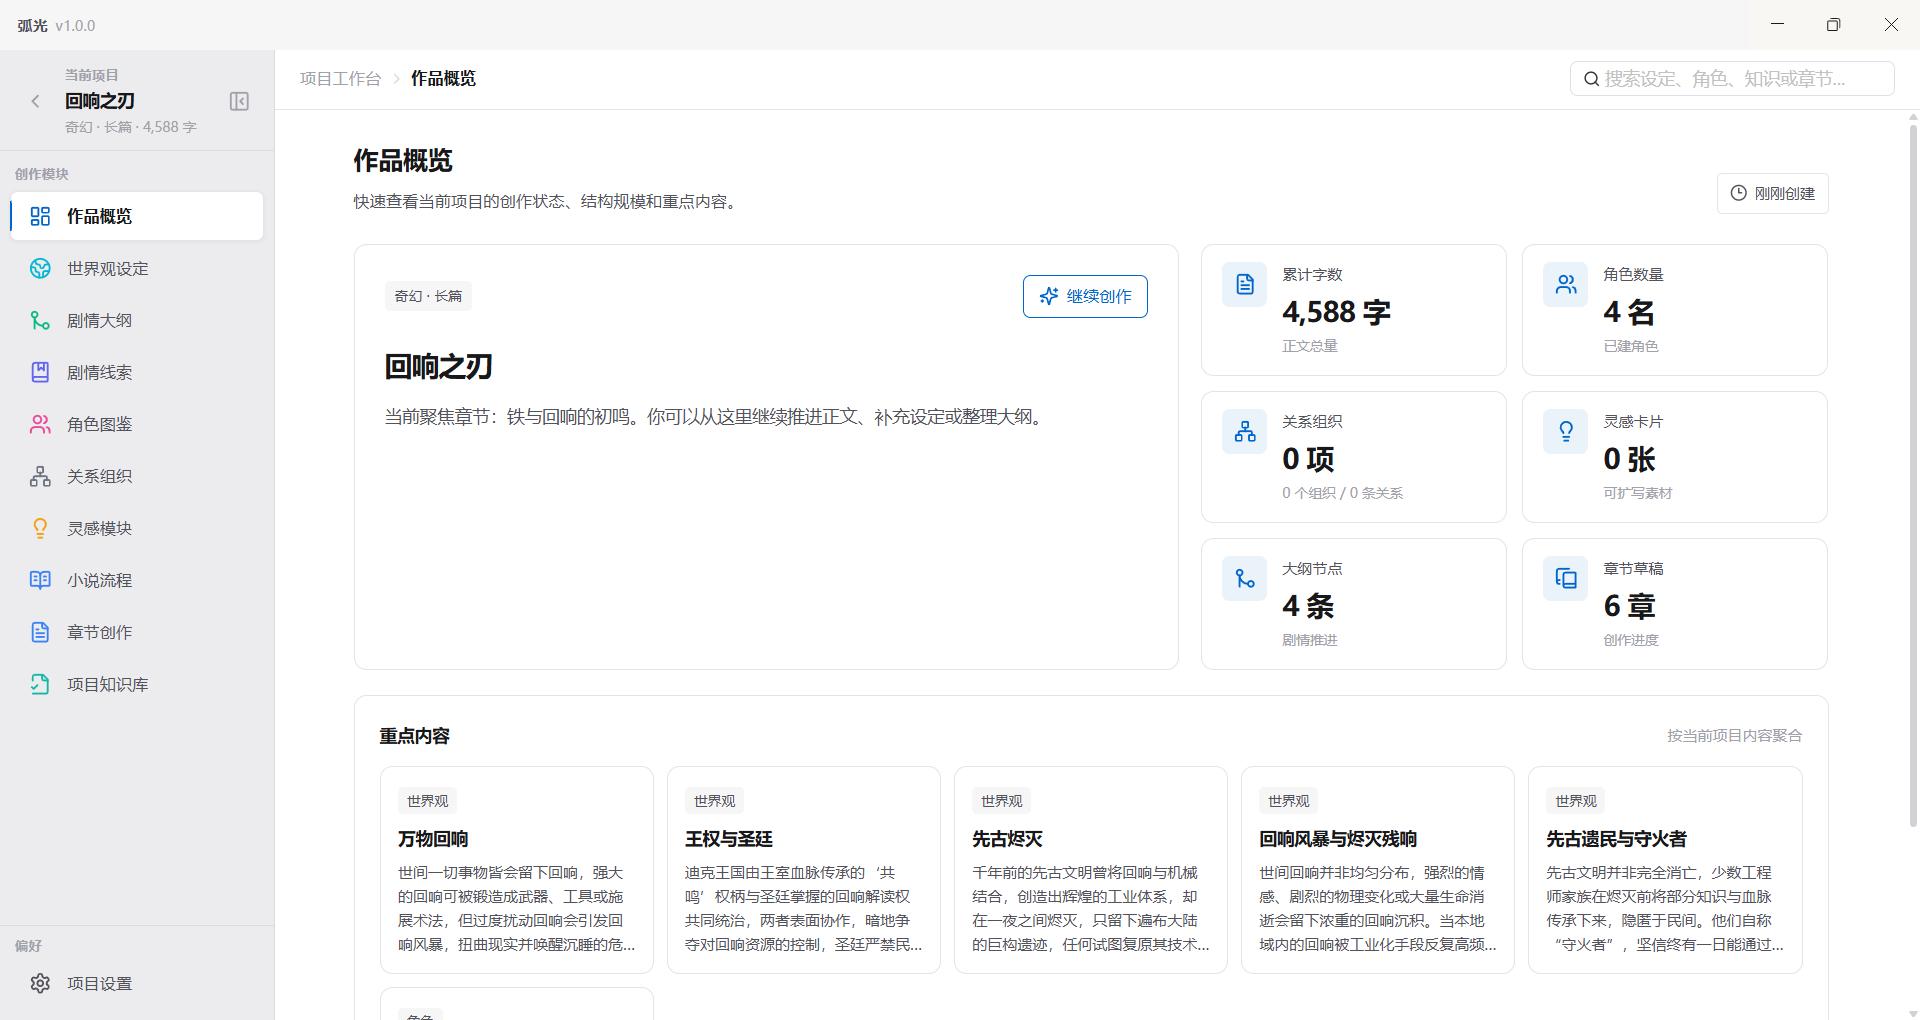
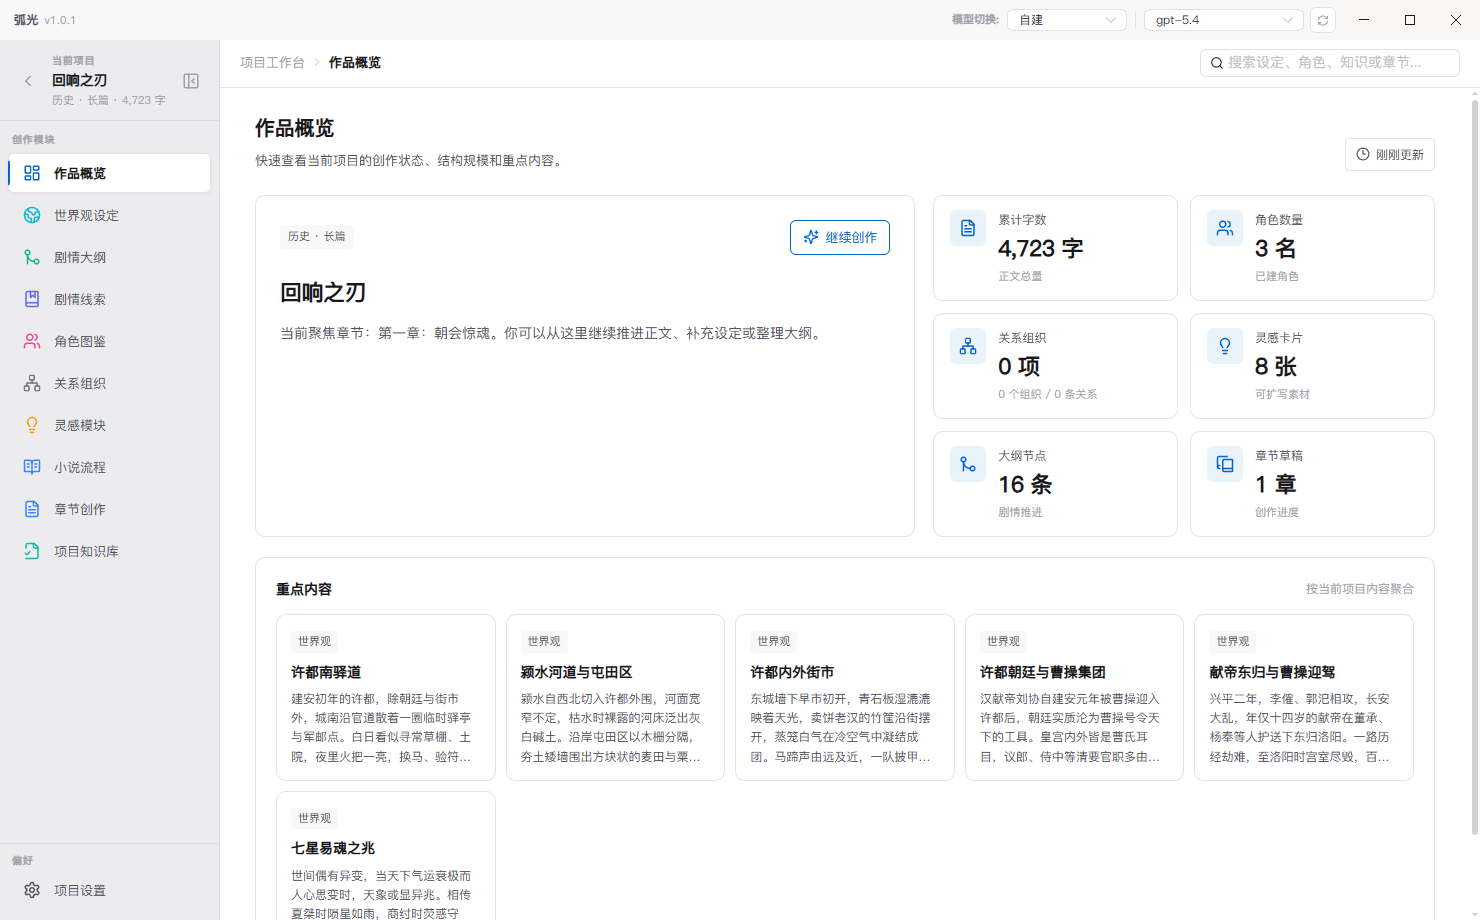
修复设置持久化与配置编辑问题

diff --git a/electron/main/workspace-store.ts b/electron/main/workspace-store.ts
@@ -285,6 +285,8 @@ export async function ensureWorkspaceDb(): Promise<DatabaseSync> {
       model TEXT NOT NULL,
       api_key TEXT NOT NULL,
       base_url TEXT NOT NULL,
+      ai_profiles_json TEXT NOT NULL DEFAULT '[]',
+      active_ai_profile_id TEXT NOT NULL DEFAULT '',
       image_provider TEXT NOT NULL DEFAULT '',
       image_model TEXT NOT NULL DEFAULT '',
       image_api_key TEXT NOT NULL DEFAULT '',
@@ -382,6 +384,14 @@ function ensureAppSettingsColumns(db: DatabaseSync): void {
 
   if (!columnNames.has('image_provider')) {
     db.exec(`ALTER TABLE app_settings ADD COLUMN image_provider TEXT NOT NULL DEFAULT '';`)
+  }
+
+  if (!columnNames.has('ai_profiles_json')) {
+    db.exec(`ALTER TABLE app_settings ADD COLUMN ai_profiles_json TEXT NOT NULL DEFAULT '[]';`)
+  }
+
+  if (!columnNames.has('active_ai_profile_id')) {
+    db.exec(`ALTER TABLE app_settings ADD COLUMN active_ai_profile_id TEXT NOT NULL DEFAULT '';`)
   }
 
   if (!columnNames.has('image_model')) {
@@ -633,7 +643,7 @@ export function readWorkspaceSnapshot(db: DatabaseSync): WorkspacePayload | null
   if (projects.length === 0) {
     const settings = db.prepare(`
       SELECT theme, selected_project_id AS selectedProjectId, provider, api_key AS apiKey, base_url AS baseUrl, auto_save_interval AS autoSaveInterval
-      , model, image_provider AS imageProvider, image_model AS imageModel, image_api_key AS imageApiKey, image_base_url AS imageBaseUrl, ui_scale AS uiScale, dark_mode AS darkMode, dark_mode_style AS darkModeStyle
+      , model, ai_profiles_json AS aiProfilesJson, active_ai_profile_id AS activeAiProfileId, image_provider AS imageProvider, image_model AS imageModel, image_api_key AS imageApiKey, image_base_url AS imageBaseUrl, ui_scale AS uiScale, dark_mode AS darkMode, dark_mode_style AS darkModeStyle
       FROM app_settings
       WHERE id = 1
     `).get() as
@@ -644,6 +654,8 @@ export function readWorkspaceSnapshot(db: DatabaseSync): WorkspacePayload | null
           model: string
           apiKey: string
           baseUrl: string
+          aiProfilesJson: string
+          activeAiProfileId: string
           imageProvider: string
           imageModel: string
           imageApiKey: string
@@ -723,6 +735,8 @@ export function readWorkspaceSnapshot(db: DatabaseSync): WorkspacePayload | null
               model: settings.model,
               apiKey: settings.apiKey,
               baseUrl: settings.baseUrl,
+              aiProfiles: parseJson(settings.aiProfilesJson, []),
+              activeAiProfileId: settings.activeAiProfileId,
               imageProvider: settings.imageProvider,
               imageModel: settings.imageModel,
               imageApiKey: settings.imageApiKey,
@@ -952,7 +966,7 @@ export function readWorkspaceSnapshot(db: DatabaseSync): WorkspacePayload | null
 
   const settings = db.prepare(`
     SELECT theme, selected_project_id AS selectedProjectId, provider, api_key AS apiKey, base_url AS baseUrl, auto_save_interval AS autoSaveInterval
-    , model, image_provider AS imageProvider, image_model AS imageModel, image_api_key AS imageApiKey, image_base_url AS imageBaseUrl, ui_scale AS uiScale, dark_mode AS darkMode, dark_mode_style AS darkModeStyle
+    , model, ai_profiles_json AS aiProfilesJson, active_ai_profile_id AS activeAiProfileId, image_provider AS imageProvider, image_model AS imageModel, image_api_key AS imageApiKey, image_base_url AS imageBaseUrl, ui_scale AS uiScale, dark_mode AS darkMode, dark_mode_style AS darkModeStyle
     FROM app_settings
     WHERE id = 1
   `).get() as
@@ -963,6 +977,8 @@ export function readWorkspaceSnapshot(db: DatabaseSync): WorkspacePayload | null
         model: string
         apiKey: string
         baseUrl: string
+        aiProfilesJson: string
+        activeAiProfileId: string
         imageProvider: string
         imageModel: string
         imageApiKey: string
@@ -1070,6 +1086,8 @@ export function readWorkspaceSnapshot(db: DatabaseSync): WorkspacePayload | null
         model: settings.model,
         apiKey: settings.apiKey,
         baseUrl: settings.baseUrl,
+        aiProfiles: parseJson(settings.aiProfilesJson, []),
+        activeAiProfileId: settings.activeAiProfileId,
         imageProvider: settings.imageProvider,
         imageModel: settings.imageModel,
         imageApiKey: settings.imageApiKey,
@@ -1120,8 +1138,23 @@ export function writeWorkspaceSnapshot(db: DatabaseSync, payload: WorkspacePaylo
     }
 
     const insertProject = db.prepare(`
-      INSERT OR REPLACE INTO projects (id, title, genre, novel_length, word_count, last_edited, cover, target_platform, cover_history_json, reference_works_json, writing_style_preset_id, writing_style_prompt, novel_workflow_stages_json, project_skills_json, chapter_assistant_templates_json)
+      INSERT INTO projects (id, title, genre, novel_length, word_count, last_edited, cover, target_platform, cover_history_json, reference_works_json, writing_style_preset_id, writing_style_prompt, novel_workflow_stages_json, project_skills_json, chapter_assistant_templates_json)
       VALUES (?, ?, ?, ?, ?, ?, ?, ?, ?, ?, ?, ?, ?, ?, ?)
+      ON CONFLICT(id) DO UPDATE SET
+        title = excluded.title,
+        genre = excluded.genre,
+        novel_length = excluded.novel_length,
+        word_count = excluded.word_count,
+        last_edited = excluded.last_edited,
+        cover = excluded.cover,
+        target_platform = excluded.target_platform,
+        cover_history_json = excluded.cover_history_json,
+        reference_works_json = excluded.reference_works_json,
+        writing_style_preset_id = excluded.writing_style_preset_id,
+        writing_style_prompt = excluded.writing_style_prompt,
+        novel_workflow_stages_json = excluded.novel_workflow_stages_json,
+        project_skills_json = excluded.project_skills_json,
+        chapter_assistant_templates_json = excluded.chapter_assistant_templates_json
     `)
     for (const project of payload.projects) {
       allIds.projects.add(project.id)
@@ -1521,8 +1554,8 @@ export function writeWorkspaceSnapshot(db: DatabaseSync, payload: WorkspacePaylo
     }
 
     db.prepare(`
-      INSERT OR REPLACE INTO app_settings (id, theme, selected_project_id, provider, model, api_key, base_url, image_provider, image_model, image_api_key, image_base_url, auto_save_interval, ui_scale, dark_mode, dark_mode_style)
-      VALUES (1, ?, ?, ?, ?, ?, ?, ?, ?, ?, ?, ?, ?, ?, ?)
+      INSERT OR REPLACE INTO app_settings (id, theme, selected_project_id, provider, model, api_key, base_url, ai_profiles_json, active_ai_profile_id, image_provider, image_model, image_api_key, image_base_url, auto_save_interval, ui_scale, dark_mode, dark_mode_style)
+      VALUES (1, ?, ?, ?, ?, ?, ?, ?, ?, ?, ?, ?, ?, ?, ?, ?, ?)
     `).run(
       payload.theme,
       payload.selectedProjectId,
@@ -1530,6 +1563,8 @@ export function writeWorkspaceSnapshot(db: DatabaseSync, payload: WorkspacePaylo
       normalizedAppSettings.model,
       normalizedAppSettings.apiKey,
       normalizedAppSettings.baseUrl,
+      JSON.stringify(normalizedAppSettings.aiProfiles ?? []),
+      normalizedAppSettings.activeAiProfileId,
       normalizedAppSettings.imageProvider,
       normalizedAppSettings.imageModel,
       normalizedAppSettings.imageApiKey,
@@ -1593,8 +1628,8 @@ export function writeAppSettingsRow(
 ): void {
   const normalized = normalizeAppSettings(settings)
   db.prepare(`
-    INSERT INTO app_settings (id, theme, selected_project_id, provider, model, api_key, base_url, image_provider, image_model, image_api_key, image_base_url, auto_save_interval, ui_scale, dark_mode, dark_mode_style)
-    VALUES (1, ?, ?, ?, ?, ?, ?, ?, ?, ?, ?, ?, ?, ?, ?)
+    INSERT INTO app_settings (id, theme, selected_project_id, provider, model, api_key, base_url, ai_profiles_json, active_ai_profile_id, image_provider, image_model, image_api_key, image_base_url, auto_save_interval, ui_scale, dark_mode, dark_mode_style)
+    VALUES (1, ?, ?, ?, ?, ?, ?, ?, ?, ?, ?, ?, ?, ?, ?, ?, ?)
     ON CONFLICT(id) DO UPDATE SET
       theme = excluded.theme,
       selected_project_id = excluded.selected_project_id,
@@ -1602,6 +1637,8 @@ export function writeAppSettingsRow(
       model = excluded.model,
       api_key = excluded.api_key,
       base_url = excluded.base_url,
+      ai_profiles_json = excluded.ai_profiles_json,
+      active_ai_profile_id = excluded.active_ai_profile_id,
       image_provider = excluded.image_provider,
       image_model = excluded.image_model,
       image_api_key = excluded.image_api_key,
@@ -1617,6 +1654,8 @@ export function writeAppSettingsRow(
     normalized.model,
     normalized.apiKey,
     normalized.baseUrl,
+    JSON.stringify(normalized.aiProfiles ?? []),
+    normalized.activeAiProfileId,
     normalized.imageProvider,
     normalized.imageModel,
     normalized.imageApiKey,

diff --git a/electron/main/workspace-types.ts b/electron/main/workspace-types.ts
@@ -280,6 +280,15 @@ export type WorkspacePayload = {
     model: string
     apiKey: string
     baseUrl: string
+    aiProfiles: Array<{
+      id: string
+      name: string
+      provider: string
+      baseUrl: string
+      apiKey: string
+      model: string
+    }>
+    activeAiProfileId: string
     imageProvider: string
     imageModel: string
     imageApiKey: string
@@ -419,6 +428,20 @@ export function normalizeAppSettings(
     model: settings?.model || '',
     apiKey: settings?.apiKey || '',
     baseUrl: settings?.baseUrl || '',
+    aiProfiles: Array.isArray(settings?.aiProfiles)
+      ? settings.aiProfiles
+          .filter((item): item is NonNullable<typeof settings.aiProfiles>[number] => !!item && typeof item === 'object')
+          .map((item) => ({
+            id: String(item.id ?? '').trim(),
+            name: String(item.name ?? '').trim(),
+            provider: String(item.provider ?? '').trim(),
+            baseUrl: String(item.baseUrl ?? '').trim(),
+            apiKey: String(item.apiKey ?? '').trim(),
+            model: String(item.model ?? '').trim()
+          }))
+          .filter((item) => item.id)
+      : [],
+    activeAiProfileId: typeof settings?.activeAiProfileId === 'string' ? settings.activeAiProfileId : '',
     imageProvider: settings?.imageProvider || '',
     imageModel: settings?.imageModel || '',
     imageApiKey: settings?.imageApiKey || '',

diff --git a/renderer/src/components/home/HomepageSettingsModal.vue b/renderer/src/components/home/HomepageSettingsModal.vue
@@ -126,7 +126,7 @@ function syncDraftFromStore(): void {
   draftSettings.model = appStore.appSettings.model
   draftSettings.apiKey = appStore.appSettings.apiKey
   draftSettings.baseUrl = appStore.appSettings.baseUrl
-  draftSettings.aiProfiles = [...appStore.appSettings.aiProfiles]
+  draftSettings.aiProfiles = appStore.appSettings.aiProfiles.map((profile) => ({ ...profile }))
   draftSettings.activeAiProfileId = appStore.appSettings.activeAiProfileId
   draftSettings.imageProvider = appStore.appSettings.imageProvider
   draftSettings.imageModel = appStore.appSettings.imageModel
@@ -321,7 +321,7 @@ async function handleTestAiConnection(): Promise<void> {
 }
 
 async function saveSettings(): Promise<void> {
-  appStore.updateAppSetting('aiProfiles', [...draftSettings.aiProfiles])
+  appStore.updateAppSetting('aiProfiles', draftSettings.aiProfiles.map((profile) => ({ ...profile })))
   appStore.updateAppSetting('activeAiProfileId', draftSettings.activeAiProfileId)
 
   const activeProfile = draftSettings.aiProfiles.find(p => p.id === draftSettings.activeAiProfileId)